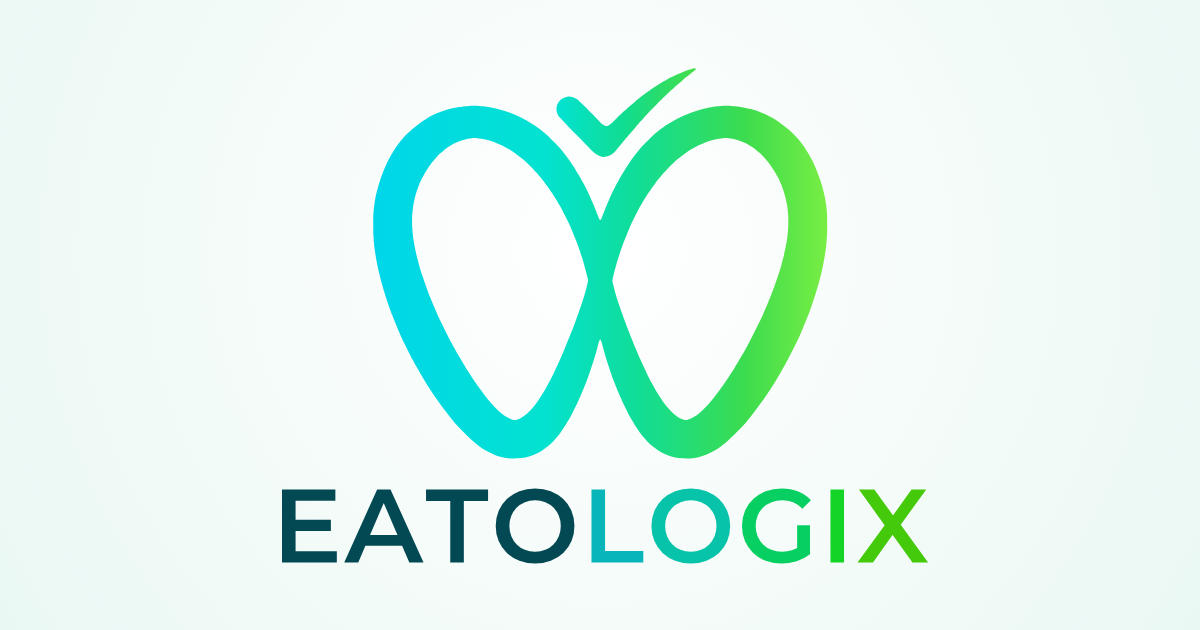
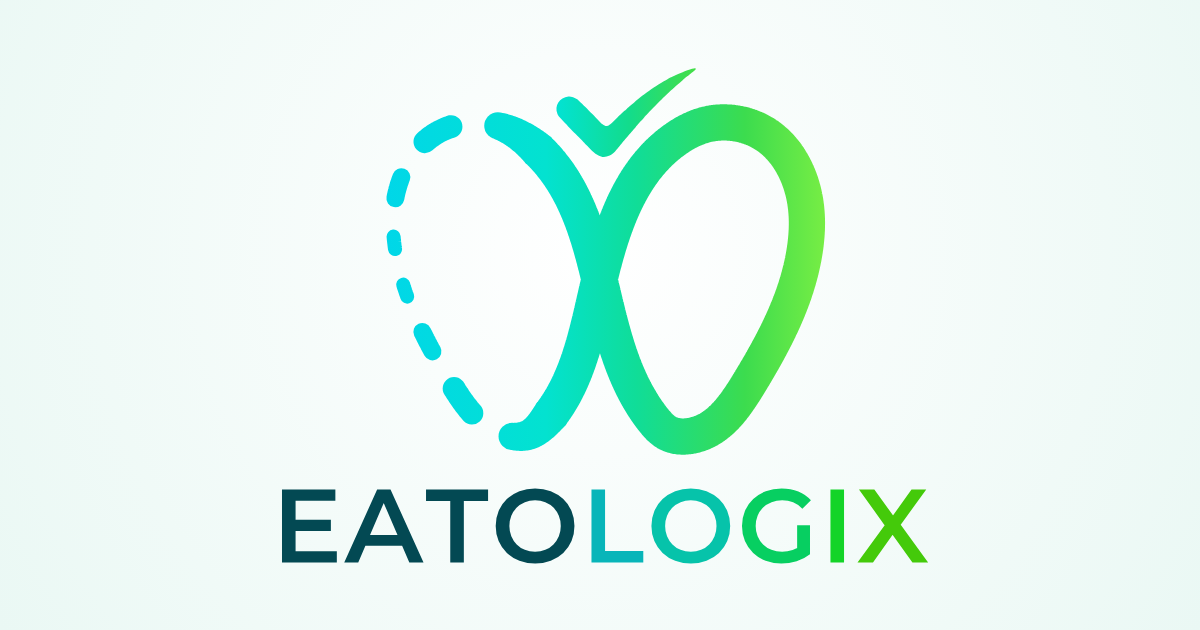
Знакът с тирета за големите размери: плътен Х (LOGIX) + левият контур се разтваря в тирета
Голямото лого (лендинг, OG), екранът при зареждане и сплашът на Android ползват
brand/eatologix-mark-tech.svg (scripts/mark-tech.mjs от центровата линия
brand/mark-center.json). Иконите, favicon, хедърът и имейлът остават с плътния знак.

Claude-Session: https://claude.ai/code/session_01VMjsNV19XzD7y9acMbxr8R

diff --git a/sw.js b/sw.js
@@ -2,7 +2,7 @@
 // Configure base path - use '/' for custom domain (biocode.website) or '/aidiet' for GitHub Pages
 const BASE_PATH = '';
 
-const CACHE_NAME = 'nutriplan-v46'; // v46: новият знак (ябълка-безкрайност с отметка-лист)
+const CACHE_NAME = 'nutriplan-v47'; // v47: знакът с тирета (голямото лого, сплаш)
 // Android приложението (Capacitor) е на https://localhost и носи файловете си —
 // там service worker само връща стари версии след обновяване. Самоизключва се.
 const IS_NATIVE_APP_ORIGIN = self.location.origin === 'https://localhost';
@@ -37,6 +37,7 @@ const STATIC_CACHE = [
   `${BASE_PATH}/manifest.json`,
   `${BASE_PATH}/i18n.js`,
   `${BASE_PATH}/brand/eatologix-mark.svg`,
+  `${BASE_PATH}/brand/eatologix-mark-tech.svg`,
   `${BASE_PATH}/brand/eatologix-horizontal.svg`,
   `${BASE_PATH}/brand/eatologix-horizontal-dark.svg`,
   `${BASE_PATH}/brand/eatologix-wordmark-dark.svg`,

diff --git a/index.html b/index.html
@@ -61,7 +61,7 @@
         html.app-booting::after {
             left: 50%; top: 50%;
             width: 120px; height: 120px; margin: -60px 0 0 -60px;
-            background: url("./brand/eatologix-mark.svg") center / contain no-repeat;
+            background: url("./brand/eatologix-mark-tech.svg") center / contain no-repeat;
             filter: drop-shadow(0 0 18px rgba(0,224,220,0.35));
             animation: appBootPulse 1.6s ease-in-out infinite;
         }

diff --git a/scripts/trace-center.py b/scripts/trace-center.py
@@ -1,0 +1,50 @@
+# Центрова линия на примката (за линия с прекъсвания): скелет на огледалната маска → гладка крива.
+# Центровата линия на примката → brand/mark-center.json (за знака с тирета, scripts/mark-tech.mjs).
+#   python3 scripts/trace-center.py > brand/mark-center.json   (нужни: scikit-image, scipy)
+import sys, json, numpy as np
+from PIL import Image
+from collections import deque
+from skimage.morphology import skeletonize
+from scipy.ndimage import distance_transform_edt, label
+from scipy.interpolate import splprep, splev
+a = np.array(Image.open('brand/concept-eatologix.png').convert('RGB')).astype(int)
+mask = a.max(axis=2) > 120
+lab, n = label(mask); sizes = np.bincount(lab.ravel()); sizes[0] = 0
+loop = lab == sizes.argmax()
+xs = np.nonzero(loop.any(axis=0))[0]; axis = (xs.min() + xs.max()) / 2
+H, W = loop.shape; f = loop.astype(float); mir = np.zeros_like(f)
+for x in range(W):
+    xm = 2 * axis - x; x0 = int(np.floor(xm)); t = xm - x0
+    if 0 <= x0 < W - 1: mir[:, x] = (1 - t) * f[:, x0] + t * f[:, x0 + 1]
+sym = (f + mir) / 2 >= 0.5
+dt = distance_transform_edt(sym); sk = skeletonize(sym)
+width = 2 * float(np.median(dt[sk]))
+# Лявата половина на скелета (без кръстовището): отворена крива.
+cut = int(axis - width * 1.2)
+L = sk.copy(); L[:, cut:] = False
+ys, xs2 = np.nonzero(L); pts = set(zip(ys, xs2))
+def nb(p): return [(p[0]+dy, p[1]+dx) for dy in (-1,0,1) for dx in (-1,0,1) if (dy or dx) and (p[0]+dy, p[1]+dx) in pts]
+ends = [p for p in pts if len(nb(p)) == 1]
+ends.sort(key=lambda p: -p[0])                     # долният край (диагоналът) първи
+cur, prev, order = ends[0], None, [ends[0]]; seen = {ends[0]}
+while True:
+    nx = [q for q in nb(cur) if q not in seen]
+    if not nx: break
+    cur = min(nx, key=lambda q: abs(q[0]-cur[0]) + abs(q[1]-cur[1])); seen.add(cur); order.append(cur)
+P = np.array([(x, y) for y, x in order], float)
+# Кръстовището: средата между двата края, на оста.
+col = np.nonzero(sym[:, int(round(axis))])[0]
+run = [col[0]]
+for r in col[1:]:
+    if r != run[-1] + 1: break
+    run.append(r)
+C = np.array([axis, (run[0] + run[-1]) / 2])
+print('C', C, 'ends', P[0], P[-1], file=sys.stderr)
+left = np.vstack([C, P[::4]])
+right = left.copy(); right[:, 0] = 2 * axis - right[:, 0]
+full = np.vstack([left, right])                    # затворена фигура осем през кръстовището
+tck, _ = splprep([full[:, 0], full[:, 1]], s=len(full) * 1.5, per=True)
+u = np.linspace(0, 1, 1600, endpoint=False); X, Y = splev(u, tck)
+pts = np.stack([X, Y], 1)
+# Огледална симетрия: лявата половина от гладката крива + огледалото ѝ.
+print(json.dumps({'axis': axis, 'width': round(width, 1), 'pts': [[round(x, 2), round(y, 2)] for x, y in pts]}))
